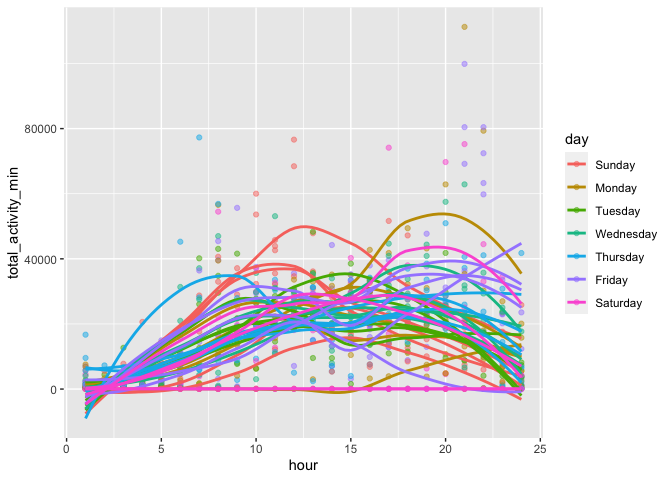
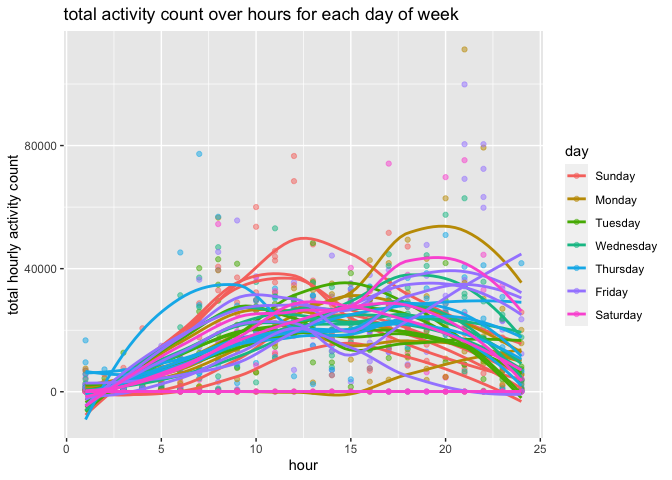
some new plots

diff --git a/p8105_hw3_zw2899.md b/p8105_hw3_zw2899.md
@@ -187,9 +187,8 @@ There is no apparent trend of activity count by day.
 
 ``` r
 hourly_accel_data = accel_data %>%
-  #filter(day %in% c("Saturday", "Friday") & week %in% c(1,2,3)) %>%
   group_by(week, day, hour) %>%
-  summarize(total_activity_min = sum(activity_count)) 
+  summarize(total_activity_hourly = sum(activity_count)) 
 ```
 
     ## `summarise()` has grouped output by 'week', 'day'. You can override using the
@@ -201,25 +200,27 @@ hourly_accel_data
 
     ## # A tibble: 840 × 4
     ## # Groups:   week, day [35]
-    ##     week day     hour total_activity_min
-    ##    <dbl> <fct>  <int>              <dbl>
-    ##  1     1 Sunday     1               1084
-    ##  2     1 Sunday     2                614
-    ##  3     1 Sunday     3               7766
-    ##  4     1 Sunday     4              20625
-    ##  5     1 Sunday     5              11380
-    ##  6     1 Sunday     6               1057
-    ##  7     1 Sunday     7                290
-    ##  8     1 Sunday     8              16756
-    ##  9     1 Sunday     9              37128
-    ## 10     1 Sunday    10              60013
+    ##     week day     hour total_activity_hourly
+    ##    <dbl> <fct>  <int>                 <dbl>
+    ##  1     1 Sunday     1                  1084
+    ##  2     1 Sunday     2                   614
+    ##  3     1 Sunday     3                  7766
+    ##  4     1 Sunday     4                 20625
+    ##  5     1 Sunday     5                 11380
+    ##  6     1 Sunday     6                  1057
+    ##  7     1 Sunday     7                   290
+    ##  8     1 Sunday     8                 16756
+    ##  9     1 Sunday     9                 37128
+    ## 10     1 Sunday    10                 60013
     ## # … with 830 more rows
 
 ``` r
-hourly_accel_data %>% ggplot(aes(x = hour, y = total_activity_min, 
+hourly_accel_data %>% ggplot(aes(x = hour, y = total_activity_hourly, 
                                  group = interaction(week, day), color = day)) + 
   geom_point(alpha = 0.5) +
-  geom_smooth(se = F)
+  geom_smooth(se = F) +
+  labs(title = "total activity count over hours for each day of week",
+       y = "total hourly activity count")
 ```
 
     ## `geom_smooth()` using method = 'loess' and formula 'y ~ x'
@@ -281,14 +282,163 @@ ny_noaa %>%
 
 We can see that precipitation, snowfall, and small depth has relatively
 small number of missing values. However, almost half of the minimum and
-maximum temperature data are missing in this dataset.
+maximum temperature data are missing in this dataset, which might lead
+to bias in analyses.
 
--   Do some data cleaning. Create separate variables for year, month,
-    and day. Ensure observations for temperature, precipitation, and
-    snowfall are given in reasonable units. For snowfall, what are the
-    most commonly observed values? Why?
+We clean the data by converting the unit of tmax and tmin from tenth of
+Celsius to Celsius. We also convert the unit of precipitation from tenth
+of mm to mm. We also separate the date variable to year, month, and day
+variables. We choose to not change the unit of the snowfall variable
+because mm is already a widely-used unit worldwide.
 
 ``` r
-#ny_noaa %>%
-#  separate(date, )
+cleaned_ny_noaa = ny_noaa %>%
+  mutate(date_full = date) %>%
+  separate(date, c("year", "month", "day"), sep = "-") %>%
+  mutate(tmax = as.numeric(tmax)/10,
+         tmin = as.numeric(tmin)/10,
+         prcp = prcp/10) # convert tenths of values to to actual values
+
+cleaned_ny_noaa
 ```
+
+    ## # A tibble: 2,595,176 × 10
+    ##    id          year  month day    prcp  snow  snwd  tmax  tmin date_full 
+    ##    <chr>       <chr> <chr> <chr> <dbl> <int> <int> <dbl> <dbl> <date>    
+    ##  1 US1NYAB0001 2007  11    01       NA    NA    NA    NA    NA 2007-11-01
+    ##  2 US1NYAB0001 2007  11    02       NA    NA    NA    NA    NA 2007-11-02
+    ##  3 US1NYAB0001 2007  11    03       NA    NA    NA    NA    NA 2007-11-03
+    ##  4 US1NYAB0001 2007  11    04       NA    NA    NA    NA    NA 2007-11-04
+    ##  5 US1NYAB0001 2007  11    05       NA    NA    NA    NA    NA 2007-11-05
+    ##  6 US1NYAB0001 2007  11    06       NA    NA    NA    NA    NA 2007-11-06
+    ##  7 US1NYAB0001 2007  11    07       NA    NA    NA    NA    NA 2007-11-07
+    ##  8 US1NYAB0001 2007  11    08       NA    NA    NA    NA    NA 2007-11-08
+    ##  9 US1NYAB0001 2007  11    09       NA    NA    NA    NA    NA 2007-11-09
+    ## 10 US1NYAB0001 2007  11    10       NA    NA    NA    NA    NA 2007-11-10
+    ## # … with 2,595,166 more rows
+
+We go through some extra steps to convert the year, month, and day
+variables to number, character, and number format:
+
+``` r
+cleaned_ny_noaa = cleaned_ny_noaa %>%
+  mutate(year = as.integer(year),
+         month = month.name[as.integer(month)],
+         day = as.integer(day))
+cleaned_ny_noaa
+```
+
+    ## # A tibble: 2,595,176 × 10
+    ##    id           year month      day  prcp  snow  snwd  tmax  tmin date_full 
+    ##    <chr>       <int> <chr>    <int> <dbl> <int> <int> <dbl> <dbl> <date>    
+    ##  1 US1NYAB0001  2007 November     1    NA    NA    NA    NA    NA 2007-11-01
+    ##  2 US1NYAB0001  2007 November     2    NA    NA    NA    NA    NA 2007-11-02
+    ##  3 US1NYAB0001  2007 November     3    NA    NA    NA    NA    NA 2007-11-03
+    ##  4 US1NYAB0001  2007 November     4    NA    NA    NA    NA    NA 2007-11-04
+    ##  5 US1NYAB0001  2007 November     5    NA    NA    NA    NA    NA 2007-11-05
+    ##  6 US1NYAB0001  2007 November     6    NA    NA    NA    NA    NA 2007-11-06
+    ##  7 US1NYAB0001  2007 November     7    NA    NA    NA    NA    NA 2007-11-07
+    ##  8 US1NYAB0001  2007 November     8    NA    NA    NA    NA    NA 2007-11-08
+    ##  9 US1NYAB0001  2007 November     9    NA    NA    NA    NA    NA 2007-11-09
+    ## 10 US1NYAB0001  2007 November    10    NA    NA    NA    NA    NA 2007-11-10
+    ## # … with 2,595,166 more rows
+
+The most commonly observed values in snowfall is calculated as follows:
+
+``` r
+cleaned_ny_noaa %>%
+  group_by(snow) %>%
+  summarize(snowfall_mm = n()) %>%
+  arrange(desc(snowfall_mm))
+```
+
+    ## # A tibble: 282 × 2
+    ##     snow snowfall_mm
+    ##    <int>       <int>
+    ##  1     0     2008508
+    ##  2    NA      381221
+    ##  3    25       31022
+    ##  4    13       23095
+    ##  5    51       18274
+    ##  6    76       10173
+    ##  7     8        9962
+    ##  8     5        9748
+    ##  9    38        9197
+    ## 10     3        8790
+    ## # … with 272 more rows
+
+We can see from above that the most common values for snowfall is 0.
+This is probably because for most of the places in New York, it doesn’t
+snow most time of the year.
+
+Below is a plot showing the average maximum temperature in January and
+July in each weather station across years:
+
+``` r
+cleaned_ny_noaa %>%
+  filter(month %in% c("January", "July")) %>%
+  group_by(id, year, month) %>%
+  summarize(mean_tmax = mean(tmax, na.rm = T)) %>%
+  filter(!is.na(mean_tmax)) %>%
+  ggplot(aes(x = year, y = mean_tmax, col = month, group = id)) +
+  geom_line(alpha = 0.3) +
+  facet_grid(.~ month) + 
+  theme(legend.position = "none") +
+  labs(title = "average maximum temperature in January vs. July for each weather station",
+       y = "average maximum temperature (Celsius)")
+```
+
+    ## `summarise()` has grouped output by 'id', 'year'. You can override using the
+    ## `.groups` argument.
+
+![](p8105_hw3_zw2899_files/figure-gfm/unnamed-chunk-14-1.png)<!-- -->
+
+-   Below is a two-panel plot showing (i) tmax vs tmin for the full
+    dataset (note that a scatterplot may not be the best option);
+    and (ii) make a plot showing the distribution of snowfall values
+    greater than 0 and less than 100 separately by year.
+
+Alternative to a scatterplot, we plot tmin and tmax across years
+together and observe how one changes with the other over years.
+
+``` r
+tmax_tmin_full_data = cleaned_ny_noaa %>%
+  filter(!is.na(tmin) & !is.na(tmax)) %>%
+  mutate(day_365 = yday(date_full)) %>%
+  pivot_longer(cols = tmax:tmin, names_to = "tmax_or_tmin", values_to = "temp") %>%
+  ggplot(aes(x = day_365, y = temp, color = tmax_or_tmin, group = interaction(year, tmax_or_tmin))) +
+  geom_line(alpha = 0.05) +
+  scale_color_manual(name = "", values = c("red", "blue"), labels = c("tmax", "tmin")) +
+  labs(title = "minimum and maximum temperature over year in multiple years",
+       x = "day of the year", y = "temperature (Celsius)")
+  #facet_grid(. ~ tmax_or_tmin) +
+  #theme(legend.position = "none")
+  #geom_smooth(se = F) 
+
+tmax_tmin_full_data
+```
+
+![](p8105_hw3_zw2899_files/figure-gfm/unnamed-chunk-15-1.png)<!-- --> We
+can see that in general, the maximum temperature and the minimum
+temperature vary together in the same direction.
+
+Below is a plot of the distribution of snowfall values greater than 0
+and less than 100 separately by year.
+
+``` r
+snowfall_dist = cleaned_ny_noaa %>%
+  mutate(year = factor(year)) %>%
+  filter(snow > 0 & snow < 100) %>%
+  ggplot(aes(x = snow, y = year, fill = year)) +
+  geom_density_ridges(alpha = 0.5, scale = 2)  +
+  labs(title = "snowfall distribution (between 0 and 100mm) over years",
+       x = "snowfall (mm)", y = "year")
+
+snowfall_dist
+```
+
+    ## Picking joint bandwidth of 3.76
+
+![](p8105_hw3_zw2899_files/figure-gfm/unnamed-chunk-16-1.png)<!-- -->
+From the plot above, we can see that the distributions of snowfall
+values greater than 0 and less than 100 are pretty similar every year.
